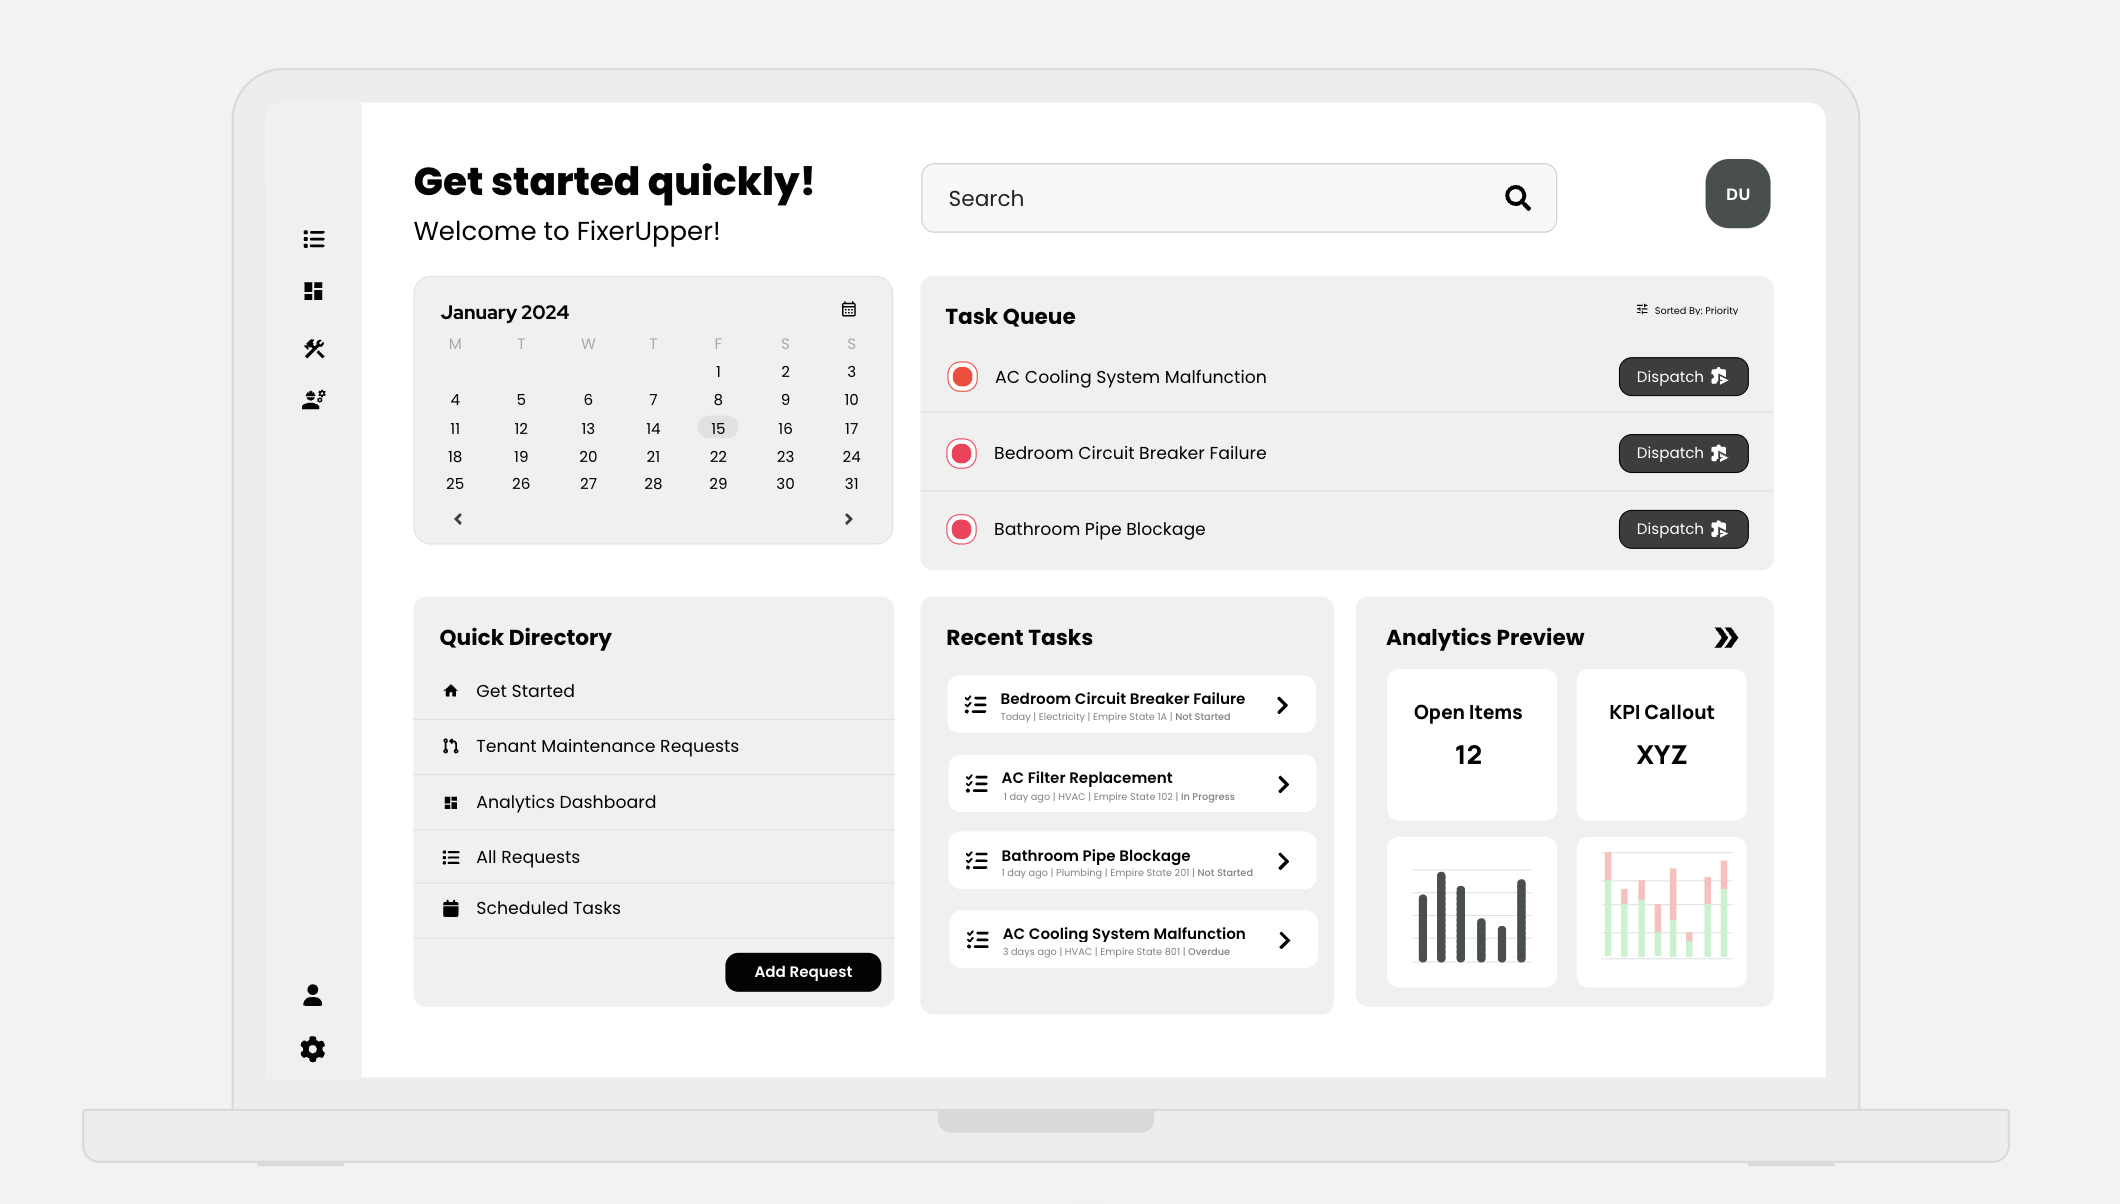
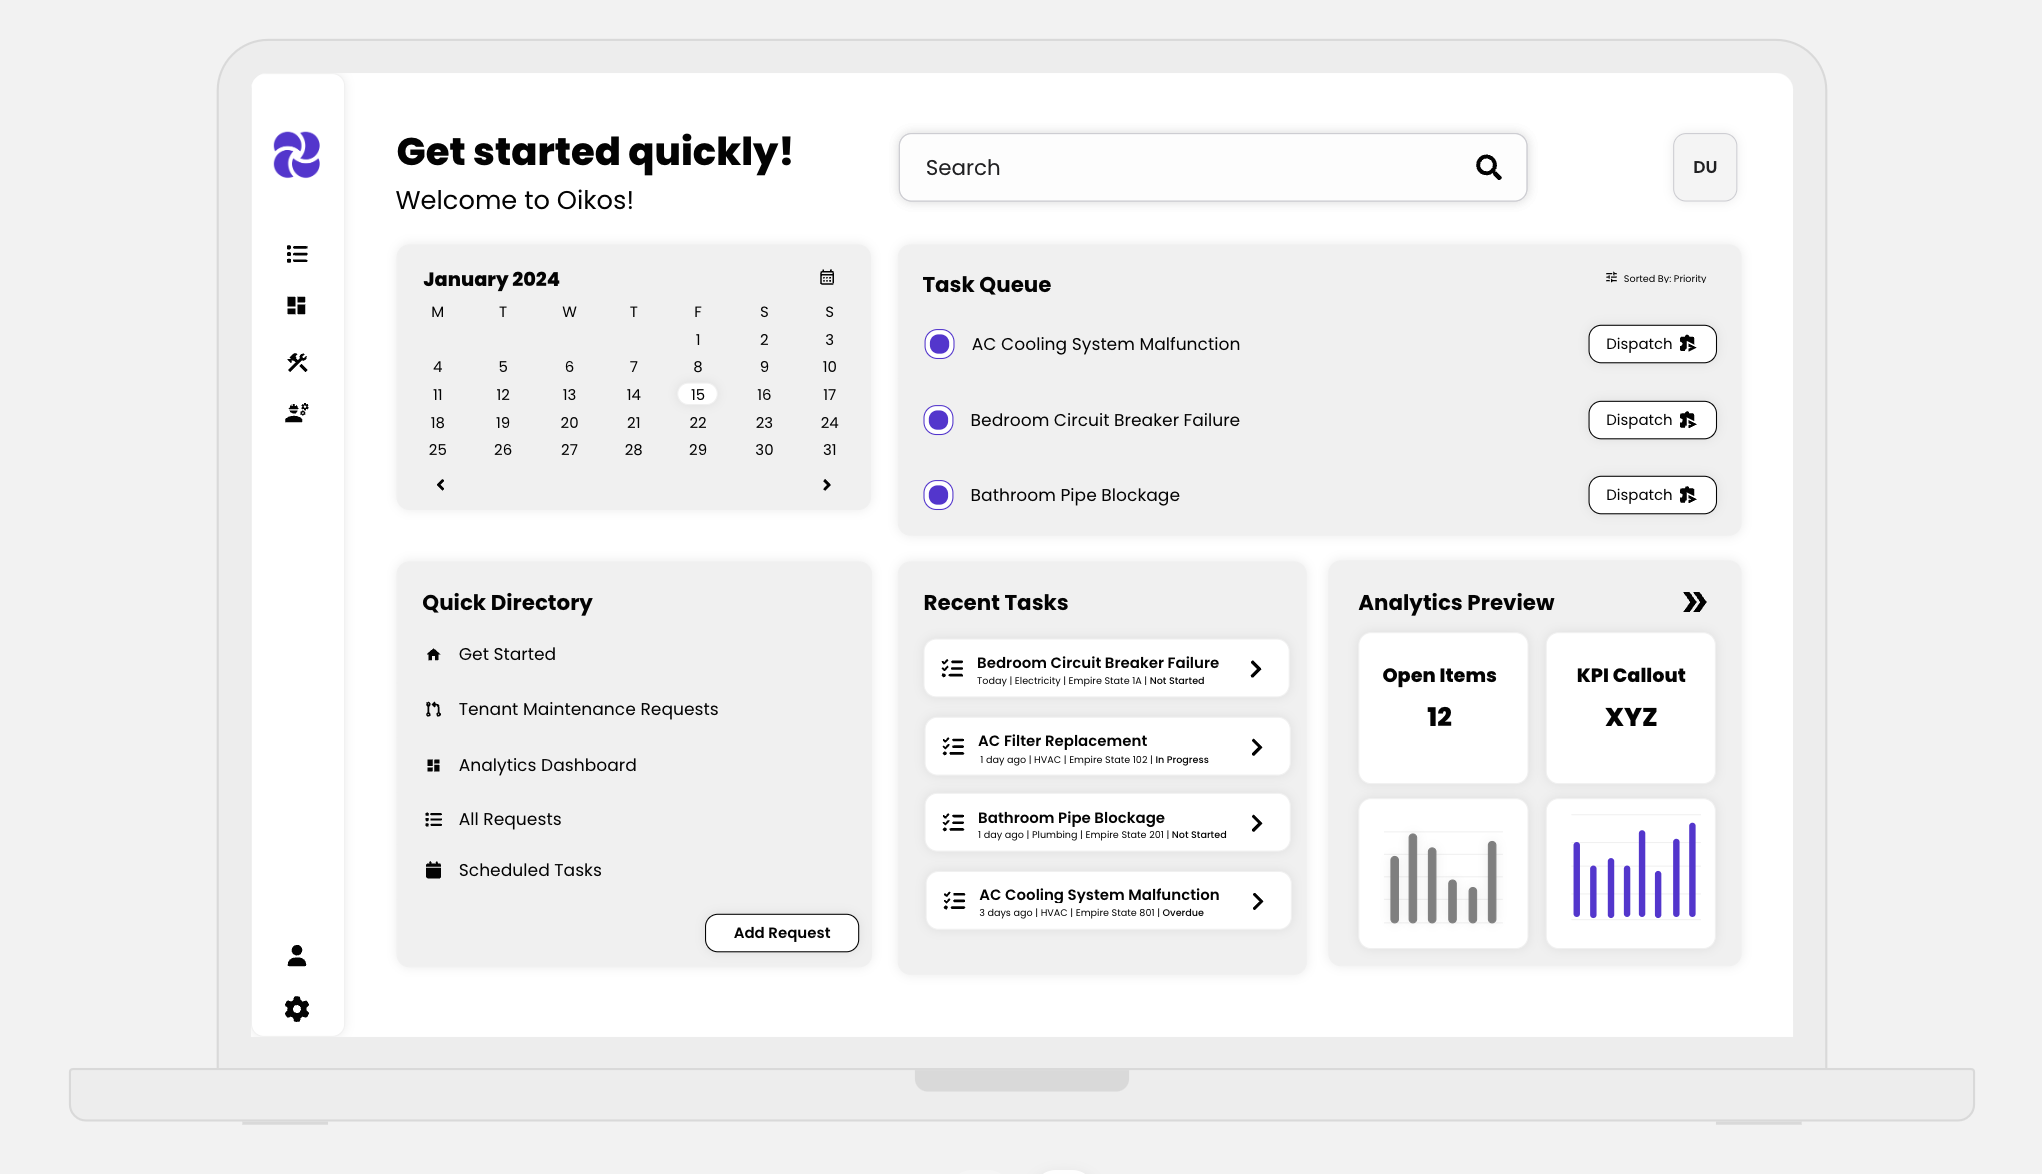
readme update

diff --git a/webui/webui/constants.py b/webui/webui/constants.py
@@ -15,32 +15,6 @@ DEFAULT_REQUEST_HISTORY = {
     "Demo Request": False,
 }
 
-# SYSTEM_PROMPT = """
-# You are an assistant focused on service management requests from tenants. Your goal is to gather information to put together in a formal service order form for a property manager. 
-
-# ===========
-# You will follow these guidelines:
-# 1. If there is not enough suitable information form a tenant you will prompt follow-up questions, if needed, till you have suitable information of the issue / situation. 
-# 2. Try to limit the amount of follow-up questions required. 
-# 3. Ask one follow-up question at a time if needed. 
-# 4. Respond in the language of the tenant.
-# 5. If you do ask follow-up questions you are allowed a MAXIMUM of 3 follow-up questions. 
-# 6. Once you have suitable information start your output message as ***SERVICE ORDER INFORMATION**:
-# ===========
-
-# ===========
-# Here is an example of a suitable service order: 
-# I am reaching out to report a maintenance issue that has recently occurred in my apartment, specifically concerning a broken window in the living room. The damage was caused by a storm, where a fallen tree branch impacted the windowpane, resulting in its shattering. This window is located on the east side of the building, facing the courtyard. Currently, the broken glass presents a significant safety hazard, and the opening has left the apartment vulnerable to environmental elements such as wind and rain. While the glass is extensively fractured, the window frame remains largely undamaged. To mitigate immediate risks, I have temporarily covered the window with plastic sheeting. This measure is intended to prevent further damage from weather conditions and to maintain safety within the apartment.
-# ===========
-
-# ===========
-# Here is an example of a non-suitable service order:
-# I have a broken window. 
-# ===========
-
-# FOLLOW THESE GUIDELINES, OR YOU WILL BE FIRED.
-# """
-
 SYSTEM_PROMPT = """
 You are an assistant focused on service management requests from tenants. Your goal is to gather information to put together in a formal service order form for a property manager. 
 
@@ -51,25 +25,18 @@ You will follow these guidelines:
 3. Ask one follow-up question at a time if needed. 
 4. Respond in the language of the tenant.
 5. If you do ask follow-up questions you are allowed a MAXIMUM of 3 follow-up questions. 
-6. Verify this is not related to a previous service order based on the history provided (be sure to provided tenant details and date). 
-7. Once you have suitable information start your output message as ***SERVICE ORDER INFORMATION**:
+6. Once you have suitable information start your output message as ***SERVICE ORDER INFORMATION**:
 ===========
 
-=========== EXAMPLES ===========
+===========
 Here is an example of a suitable service order: 
 I am reaching out to report a maintenance issue that has recently occurred in my apartment, specifically concerning a broken window in the living room. The damage was caused by a storm, where a fallen tree branch impacted the windowpane, resulting in its shattering. This window is located on the east side of the building, facing the courtyard. Currently, the broken glass presents a significant safety hazard, and the opening has left the apartment vulnerable to environmental elements such as wind and rain. While the glass is extensively fractured, the window frame remains largely undamaged. To mitigate immediate risks, I have temporarily covered the window with plastic sheeting. This measure is intended to prevent further damage from weather conditions and to maintain safety within the apartment.
+===========
 
+===========
 Here is an example of a non-suitable service order:
 I have a broken window. 
-=========== END OF EXAMPLES =========== 
-
-==== PREVIOUS SERVICE ORDERS ====
-Previous service orders: 
-- Service Order 101:
-    - Kitchen sink clogged and was fixed on December 15th, 2023. 
-
-** If related previous service order found prompt it to tenant with date **
-==== END OF PREVIOUS SERVICE ORDERS ====
+===========
 
 FOLLOW THESE GUIDELINES, OR YOU WILL BE FIRED.
 """

diff --git a/README.md b/README.md
@@ -93,10 +93,13 @@
 
 ## Property Manager Dashboard Sneak Peek 
 <!-- PROPERTY MANAGER PREVIEW -->
-<a href="https://app.uizard.io/p/d2e04da3">
-<img src="./docs/landlord_mockup.png" alt="icon"/>
+<a href="https://app.uizard.io/p/fd4303f3">
+<img src="./docs/landlord_mockup_dark.png" alt="icon"/>
 </a>
 <p align="right">(<a href="#readme-top">back to top</a>)</p>
+<a href="https://app.uizard.io/p/2fbdb25b">
+<img src="./docs/landlord_mockup.png" alt="icon"/>
+</a>
 
 <!-- GETTING STARTED -->
 
